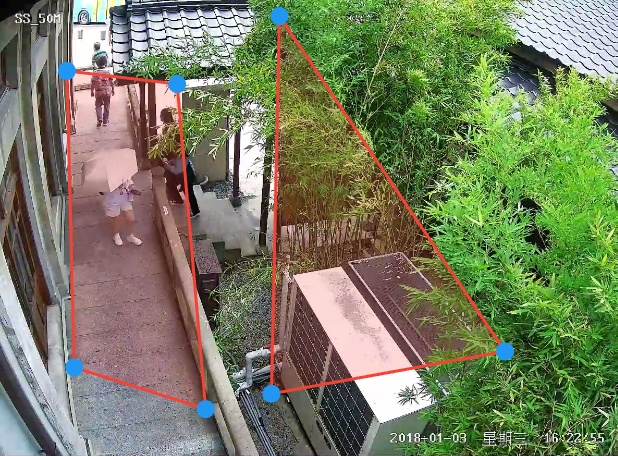
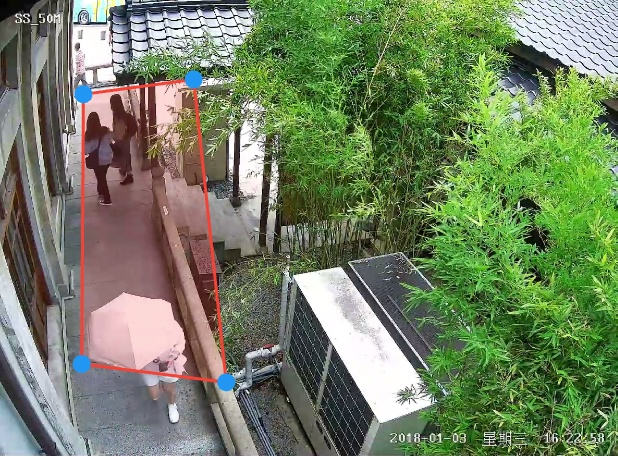
connect to firebase

diff --git a/lib/polygon_draw_page.dart b/lib/polygon_draw_page.dart
@@ -30,42 +30,80 @@ class _PolygonDrawPageState extends State<PolygonDrawPage> {
   late String videoName;
   bool _isCapturing = false; // 防止重複截圖
 
-  @override
-  void initState() {
-    super.initState();
-    screenshotController = ScreenshotController();
+@override
+void initState() {
+  super.initState();
+  screenshotController = ScreenshotController();
 
-    // 取出純影片檔名（不含路徑）
-    videoName = widget.videoPath.split('/').last.split('\\').last;
+  videoName = widget.videoPath.split('/').last.split('\\').last;
 
-    // 改成用網路影片串流
-    _controller = VideoPlayerController.network(widget.videoPath)
-      ..initialize().then((_) async {
-        setState(() {
-          polygons = [[]];
-          isPolygonLocked = [false];
-          _controller.setLooping(true);
-          _controller.play();
-        });
-
-        Timer.periodic(Duration(seconds: 2), (timer) async {
-          if (!mounted || !_controller.value.isInitialized) return;
-          if (_isCapturing) return;
-          _isCapturing = true;
-
-          try {
-            final imageBytes = await screenshotController.capture(pixelRatio: 1.5);
-            if (imageBytes != null) {
-              await sendFrameToServer(imageBytes);
-            }
-          } catch (e) {
-            print('截圖或傳送錯誤: $e');
-          }
-
-          _isCapturing = false;
-        });
+  _controller = VideoPlayerController.network(widget.videoPath)
+    ..initialize().then((_) async {
+      setState(() {
+        _controller.setLooping(true);
+        _controller.play();
       });
+
+      // 抓資料庫裡的多邊形
+      await _fetchPolygonsFromServer();
+
+      // 啟動定時截圖（可選）
+      Timer.periodic(Duration(seconds: 2), (timer) async {
+        if (!mounted || !_controller.value.isInitialized) return;
+        if (_isCapturing) return;
+        _isCapturing = true;
+
+        try {
+          final imageBytes = await screenshotController.capture(pixelRatio: 1.5);
+          if (imageBytes != null) {
+            await sendFrameToServer(imageBytes);
+          }
+        } catch (e) {
+          print('截圖或傳送錯誤: $e');
+        }
+
+        _isCapturing = false;
+      });
+    });
+}
+
+Future<void> _fetchPolygonsFromServer() async {
+  final url = Uri.parse('http://10.0.2.2:5000/get_polygon/$videoName');
+
+  try {
+    final response = await http.get(url);
+    if (response.statusCode == 200) {
+      final data = jsonDecode(response.body);
+      if (data['polygons'] != null) {
+        List<List<dynamic>> serverPolygons = List<List<dynamic>>.from(data['polygons']);
+        List<List<Offset>> loadedPolygons = [];
+
+        for (var poly in serverPolygons) {
+          List<Offset> points = [];
+          for (var point in poly) {
+            points.add(Offset(
+              (point['x'] as num).toDouble(),
+              (point['y'] as num).toDouble(),
+            ));
+          }
+          loadedPolygons.add(points);
+        }
+
+        setState(() {
+          polygons = loadedPolygons.isNotEmpty ? loadedPolygons : [[]];
+          isPolygonLocked = List.filled(polygons.length, false);
+          currentPolygonIndex = 0;
+        });
+      }
+    } else {
+      print('伺服器回傳錯誤: ${response.statusCode}');
+    }
+  } catch (e) {
+    print('從伺服器抓多邊形資料錯誤: $e');
   }
+}
+
+
 
   @override
   void dispose() {
@@ -73,13 +111,25 @@ class _PolygonDrawPageState extends State<PolygonDrawPage> {
     super.dispose();
   }
 
-  void _resetPolygon() {
-    setState(() {
-      polygons = [[]];
-      isPolygonLocked = [false];
-      currentPolygonIndex = 0;
-    });
+void _resetPolygon() async {
+  setState(() {
+    polygons = [[]];
+    isPolygonLocked = [false];
+    currentPolygonIndex = 0;
+  });
+
+  final url = Uri.parse('http://10.0.2.2:5000/delete_polygon/$videoName');
+
+  try {
+    final response = await http.delete(url);
+    print(response.statusCode == 200
+        ? '✅ 已刪除資料庫的框選資料'
+        : '❌ 刪除失敗：${response.statusCode}');
+  } catch (e) {
+    print('❌ 刪除錯誤: $e');
   }
+}
+
 
   void _addNewPolygon() {
     setState(() {

diff --git a/lib/main.dart b/lib/main.dart
@@ -1,10 +1,11 @@
-//main.dart
 import 'package:flutter/material.dart';
-import 'home_page.dart';  // 等下一步再做這個檔案
+import 'package:firebase_core/firebase_core.dart'; // ✅ Firebase 初始化
+import 'home_page.dart'; // 等你之後再實作
 
 void main() async {
-  // WidgetsFlutterBinding.ensureInitialized();
-  runApp(MyApp());
+  WidgetsFlutterBinding.ensureInitialized();          // ✅ 先確保 Flutter 綁定
+  await Firebase.initializeApp();                     // ✅ 初始化 Firebase
+  runApp(MyApp());                                    // ⬅ 啟動 App
 }
 
 class MyApp extends StatelessWidget {
@@ -13,9 +14,7 @@ class MyApp extends StatelessWidget {
     return MaterialApp(
       title: '監視器APP',
       theme: ThemeData(primarySwatch: Colors.blue),
-      home: HomePage(),
+      home: HomePage(),                                // ✅ 導向首頁
     );
   }
 }
-
-

diff --git a/macos/Flutter/GeneratedPluginRegistrant.swift b/macos/Flutter/GeneratedPluginRegistrant.swift
@@ -5,8 +5,10 @@
 import FlutterMacOS
 import Foundation
 
+import firebase_core
 import video_player_avfoundation
 
 func RegisterGeneratedPlugins(registry: FlutterPluginRegistry) {
+  FLTFirebaseCorePlugin.register(with: registry.registrar(forPlugin: "FLTFirebaseCorePlugin"))
   FVPVideoPlayerPlugin.register(with: registry.registrar(forPlugin: "FVPVideoPlayerPlugin"))
 }

diff --git a/flask_server.py b/flask_server.py
@@ -1,3 +1,4 @@
+# flask_server.py
 from flask import Flask, request, jsonify, Response
 from flask_cors import CORS
 import os
@@ -9,6 +10,12 @@ import io
 from PIL import Image
 import matplotlib.path as mpltPath
 import re
+from google.cloud import firestore
+
+cred_path = "firebase_key.json"
+os.environ["GOOGLE_APPLICATION_CREDENTIALS"] = cred_path
+db = firestore.Client()
+
 
 app = Flask(__name__)
 CORS(app)
@@ -31,22 +38,62 @@ def point_in_any_polygon(x, y, polygons):
             return True
     return False
 
+@app.route('/get_polygon/<video_name>', methods=['GET'])
+def get_polygon(video_name):
+    doc_ref = db.collection('fences').document(video_name)
+    doc = doc_ref.get()
+    if doc.exists:
+        data = doc.to_dict()
+        polygons_data = data.get('polygons', [])
+        # 把格式轉回原本的 List[List[{'x':..., 'y':...}]]
+        polygons = [poly['points'] for poly in polygons_data]
+        return jsonify({'polygons': polygons}), 200
+    else:
+        return jsonify({'polygons': []}), 200
+
+
+@app.route('/delete_polygon/<video_name>', methods=['DELETE'])
+def delete_polygon(video_name):
+    try:
+        db.collection('fences').document(video_name).delete()
+        return jsonify({'message': '已刪除'}), 200
+    except Exception as e:
+        return jsonify({'message': f'刪除失敗: {str(e)}'}), 500
+
+
+
 # 儲存多邊形資料路由
 @app.route('/save_polygon', methods=['POST'])
 def save_polygon():
     data = request.get_json()
+    print("收到資料:", data)
     if not data or 'video_name' not in data or 'polygons' not in data:
         return jsonify({'message': '缺少必要資料'}), 400
 
     video_name = data['video_name']
     polygons = data['polygons']
 
-    save_path = os.path.join(DATA_DIR, f'{video_name}.json')
-    with open(save_path, 'w', encoding='utf-8') as f:
-        json.dump(polygons, f, ensure_ascii=False, indent=2)
+    print(f"⚠ 嘗試寫入 Firestore: {video_name}")
 
-    print(f'✅ 已儲存多邊形資料到 {save_path}')
+    try:
+        # 轉換格式，讓每個多邊形是 map 包裹點的 list
+        formatted_polygons = [
+            {'points': poly}  # 假設前端送的點格式已經是 {'x': ..., 'y': ...}
+            for poly in polygons
+        ]
+
+        db.collection('fences').document(video_name).set({
+            'video_name': video_name,
+            'polygons': formatted_polygons
+        })
+
+        print(f"✅ Firestore 寫入成功: {video_name}")
+    except Exception as e:
+        print(f"❌ Firestore 寫入錯誤: {e}")
+        return jsonify({'message': '儲存失敗', 'error': str(e)}), 500
+
     return jsonify({'message': '多邊形資料儲存成功'}), 200
+
 
 # 偵測入侵路由
 @app.route('/detect_intrusion', methods=['POST'])
@@ -55,13 +102,17 @@ def detect_intrusion():
         return jsonify({'alert': False, 'message': '缺少資料'}), 400
 
     video_name = request.form['video_name']
-    polygon_path = os.path.join(DATA_DIR, f'{video_name}.json')
-
-    if not os.path.exists(polygon_path):
+    # 直接從 Firestore 讀多邊形
+    doc_ref = db.collection('fences').document(video_name)
+    doc = doc_ref.get()
+    if not doc.exists:
         return jsonify({'alert': False, 'message': '找不到多邊形資料'}), 404
 
-    with open(polygon_path, 'r', encoding='utf-8') as f:
-        polygons = json.load(f)
+    polygons = doc.to_dict().get('polygons', [])
+    polygons_points = [poly.get('points', []) for poly in polygons]
+
+# 後面用 polygons_points
+
 
     # 將圖片轉為 OpenCV 格式
     image_file = request.files['image']
@@ -78,7 +129,7 @@ def detect_intrusion():
             x1, y1, x2, y2 = map(int, det.xyxy[0])
             center_x = (x1 + x2) // 2
             center_y = (y1 + y2) // 2
-            if point_in_any_polygon(center_x, center_y, polygons):
+            if point_in_any_polygon(center_x, center_y, polygons_points):
                 # ⚠ 有人進入禁區
                 save_path = os.path.join(ALERT_FRAME_DIR, f'{video_name}_alert.jpg')
                 cv2.imwrite(save_path, img_cv)

diff --git a/windows/flutter/generated_plugin_registrant.cc b/windows/flutter/generated_plugin_registrant.cc
@@ -6,6 +6,9 @@
 
 #include "generated_plugin_registrant.h"
 
+#include <firebase_core/firebase_core_plugin_c_api.h>
 
 void RegisterPlugins(flutter::PluginRegistry* registry) {
+  FirebaseCorePluginCApiRegisterWithRegistrar(
+      registry->GetRegistrarForPlugin("FirebaseCorePluginCApi"));
 }
